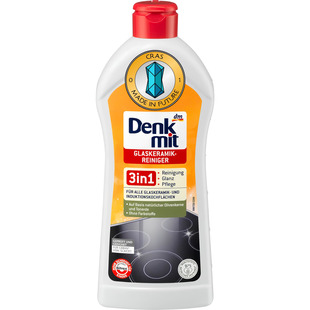
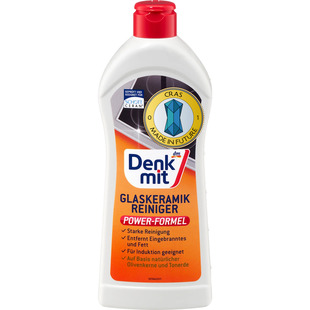
New DM Keramik

diff --git a/js/household_chemicals/array-means-cleaning-kitchen-bathroom.js b/js/household_chemicals/array-means-cleaning-kitchen-bathroom.js
@@ -1782,18 +1782,18 @@ export const shopLotsMeansCleaningKitchenBathroom = [
         brand: "Denkmit",
         search: "денкмит денкміт засоби для чищення средства средство для чистки стеклокерамика стеклокерамики индукционная поверхность индукционных поверхностей",
         nameUKR: "Засіб для чищення склокераміки та індукційних варильних поверхонь",
-        nameEN: "Glaskeramik-Reiniger 3 in 1",
+        nameEN: "Glaskeramik Reiniger Power - Formel",
         companyName: "dm-drogerie markt GmbH + Co.",
         countryName: "Німеччина",
         volumeName: "Об'єм",
         volume: "300 мл.",
-        priceGRN: 92,
-        priceGRNOpt: 79,
-        description01: "Засіб для чищення склокераміки та індукційних варильних поверхонь &#171Denkmit - Glaskeramik-Reiniger 3 in 1&#187 дарує бездоганну чистоту та блиск.",
+        priceGRN: 90,
+        priceGRNOpt: 77,
+        description01: "Засіб для чищення склокераміки та індукційних варильних поверхонь &#171Denkmit - Glaskeramik Reiniger Power - Formel&#187 дарує бездоганну чистоту та блиск.",
         description02: "Унікальна формула легко видаляє бруд, захищає поверхню від подряпин і створює захисний шар для довготривалого ефекту.",
-        description03: "Ваші варильні поверхні виглядатимуть, як нові, зберігаючи свій блиск і привабливий вигляд протягом тривалого часу після &#171Denkmit - Glaskeramik-Reiniger 3 in 1&#187.",
+        description03: "Ваші варильні поверхні виглядатимуть, як нові, зберігаючи свій блиск і привабливий вигляд протягом тривалого часу після &#171Denkmit - Glaskeramik Reiniger Power - Formel&#187.",
         description04: "<strong>Засіб для чищення склокераміки, індукційних варильний поверхонь. На основі оливкових кісточок та глини. Без барвників.</strong>",
-        description05: "Обирайте професійний догляд із засобом &#171Denkmit - Glaskeramik-Reiniger 3 in 1&#187!"
+        description05: "Обирайте професійний догляд із засобом &#171Denkmit - Glaskeramik Reiniger Power - Formel&#187!"
     },
     {
         type: "wholesale оптом",

diff --git a/js/household_chemicals/array-for-wc.js b/js/household_chemicals/array-for-wc.js
@@ -698,18 +698,18 @@ export const shopLotsForWC = [
         brand: "Denkmit",
         search: "денкмит денкміт средство для чистки чищення чистка засоби стредства туалет для туалета унитаз для унитаза унітаз для унітаза унітазу",
         nameUKR: "Таблетки у туалетний бачок для видалення накипу та забруднень",
-        nameEN: "WC-Wasserkasten-Tabletten 2 in 1",
+        nameEN: "WC Wasserkasten Tabs",
         companyName: "dm-drogerie markt GmbH + Co.",
         countryName: "Німеччина",
         quantityName: "Кількість",
         quantity: "4 шт.",
-        priceGRN: 171,
-        priceGRNOpt: 146,
-        description01: "Таблетки &#171Denkmit - WC-Wasserkasten-Tabletten 2 in 1&#187 для видалення накипу та забруднень у туалетному бачку забезпечують потужну дію з кожним змивом.",
+        priceGRN: 163,
+        priceGRNOpt: 139,
+        description01: "Таблетки &#171Denkmit - WC Wasserkasten Tabs&#187 для видалення накипу та забруднень у туалетному бачку забезпечують потужну дію з кожним змивом.",
         description02: "Їх інноваційна формула 2 в 1 одночасно бореться з накипом і запобігає утворенню нових забруднень.",
-        description03: "Використання цих таблеток дозволяє підтримувати чистоту Вашого туалету без зусиль, забезпечуючи свіжий аромат і гігієну.",
+        description03: "Використання таблеток &#171Denkmit - WC Wasserkasten Tabs&#187 дозволяє підтримувати чистоту Вашого туалету без зусиль, забезпечуючи свіжий аромат і гігієну.",
         description04: "<strong>Таблетки для унітазного бачку. Видаляють накип та забруднення. 4 штуки х 50 гр.</strong>",
-        description05: "Оцініть переваги бездоганної чистоти з таблетками &#171Denkmit - WC-Wasserkasten-Tabletten 2 in 1&#187 для туалетного бачка!"
+        description05: "Оцініть переваги бездоганної чистоти з таблетками &#171Denkmit - WC Wasserkasten Tabs&#187 для туалетного бачка!"
     },
     {
         type: "wholesale оптом",
